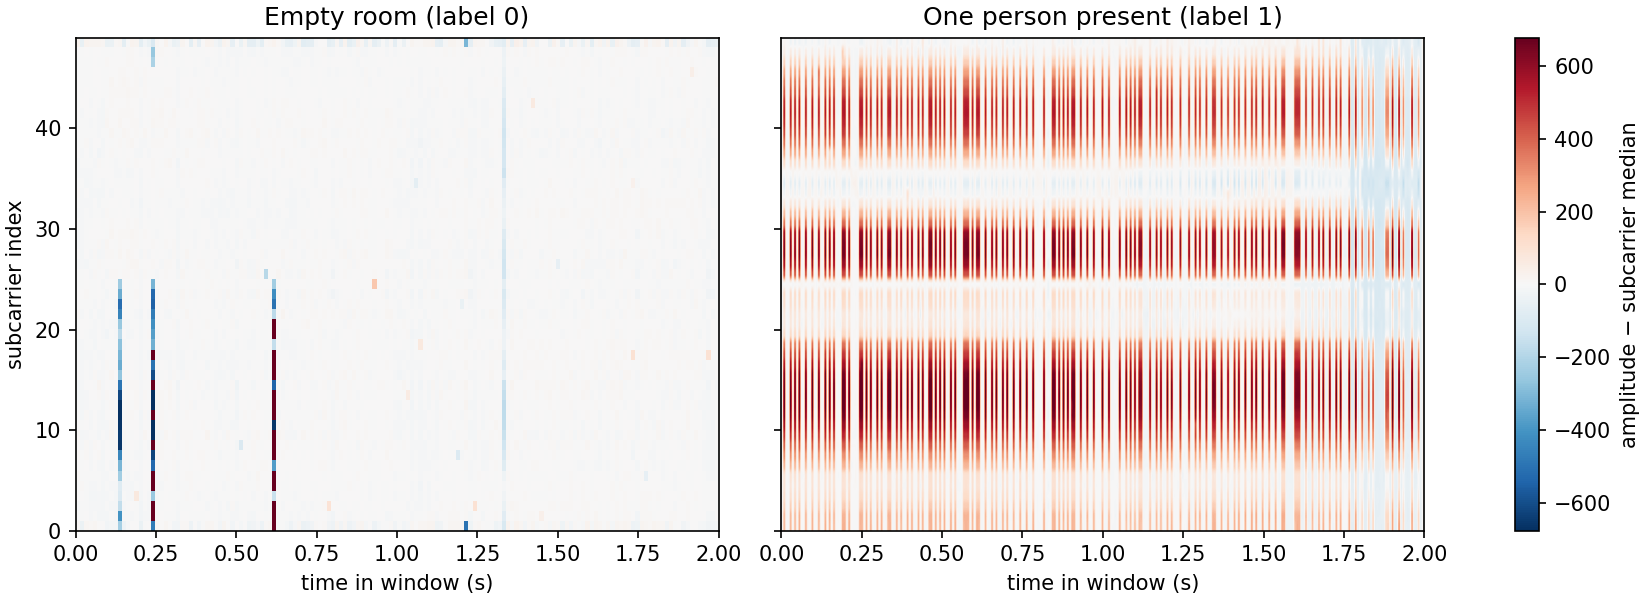
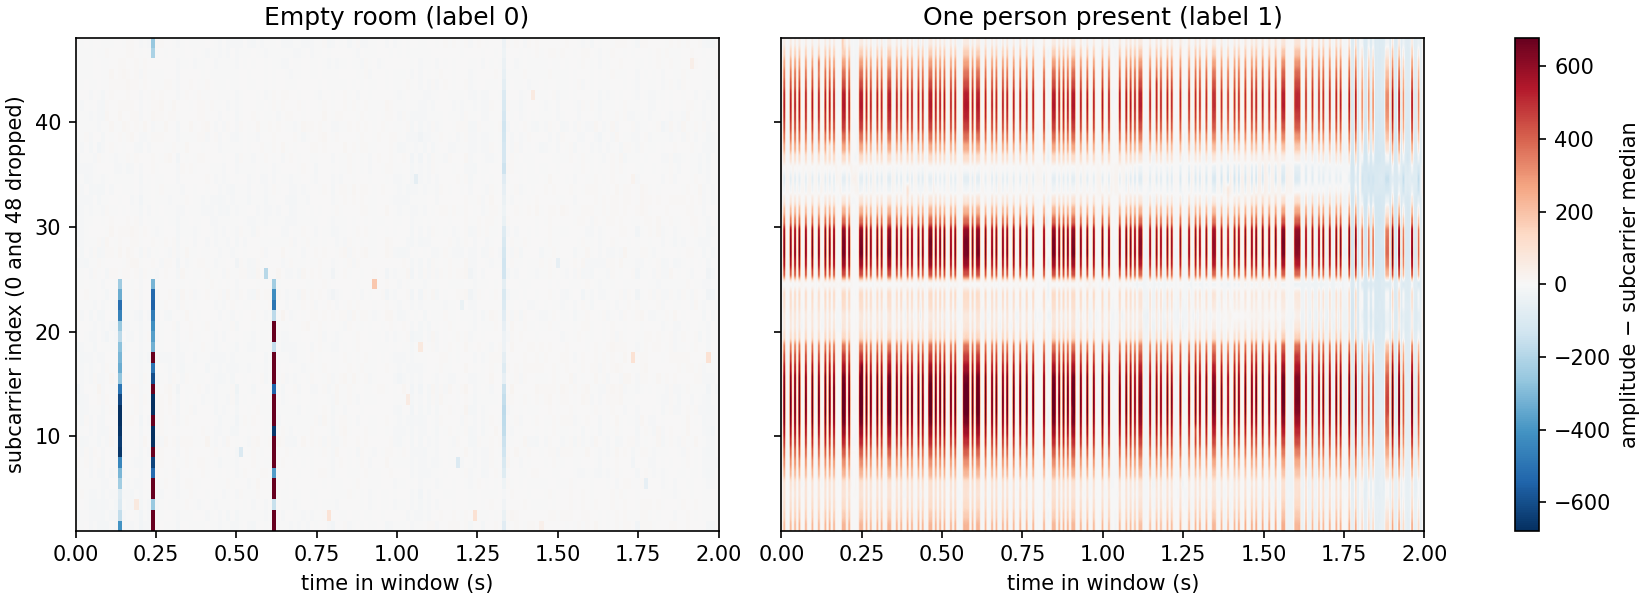
Drop band-edge subcarriers 0 and 48; document phase exclusion
Edges are 1.3-7x noisier than inner subcarriers in every empty-room
file. All loading goes through load(), so every step now uses 47
subcarriers. Figures and stats regenerated; raw-signal figure moved to
subcarrier 1.

diff --git a/main.py b/main.py
@@ -3,8 +3,9 @@
 Data: IEEE DataPort "CSI Dataset for WiFi Based Human Detection" (DOI 10.21227/smn7-jb67),
 unzipped into the project as "CSV Files/". Each magnitude CSV = one ~70 s recording,
 rows = packets (time), 49 columns = subcarriers, no header, no timestamps.
+Only the csi_magnitude_data files are read, so CSI phase is never loaded (dropped by design).
 
-Outputs go to figures/: fig_raw_subcarrier0.png, fig_a_heatmap.png,
+Outputs go to figures/: fig_raw_subcarrier1.png, fig_a_heatmap.png,
 fig_b_spread_boxplot.png, table_dataset_stats.csv, table_split.csv
 """
 import glob
@@ -15,12 +16,14 @@ import numpy as np
 import pandas as pd
 
 DATA = "CSV Files"
+# magnitude files only: the csi_complex_data/ folders (amplitude + phase) are not used
 FOLDERS = {
     "empty":      f"{DATA}/room4_iqbal/Static_noperson_channel_11_20mhz/csi_magnitude_data",
     "person":     f"{DATA}/room4_iqbal/Dynamic_1_person_ch11_20mhz/csi_magnitude_data",
     # not used for training: only checked to decide what "Static" means (see label check below)
     "lab_static": f"{DATA}/LAB_Final Year Project/Static_Lab_ch6_20mhz/csi_magnitude_data",
 }
+DROP_SUBCARRIERS = [0, 48]   # band edges: 1.3-7x noisier than inner subcarriers in every empty file
 FILE_S = 70    # seconds between consecutive file start times (from the filenames)
 WIN_S = 2      # window length in seconds
 FIG_DIR = "figures"
@@ -34,7 +37,8 @@ def list_csv(folder):
 
 
 def load(path):
-    return pd.read_csv(path, header=None)   # no header row: the first line is data
+    df = pd.read_csv(path, header=None)       # no header row: the first line is data
+    return df.drop(columns=DROP_SUBCARRIERS)  # 49 -> 47 subcarriers (original indices kept)
 
 
 def spread(df):
@@ -145,15 +149,15 @@ assert len(all_split) == len(set(all_split)) == len(files["empty"]) + len(files[
 
 # ---------- 5. figures ----------
 
-# raw subcarrier 0 over a whole file: shows the spikes in the empty room
+# raw subcarrier 1 over a whole file: shows the spikes in the empty room
 fig, axes = plt.subplots(2, 1, figsize=(10, 6), sharey=True, constrained_layout=True)
 for ax, name, title in zip(axes, ("empty", "person"),
                            ("room4, empty (Static_noperson)", "room4, 1 person moving (Dynamic_1_person)")):
-    ax.plot(first[name][0])
-    ax.set_title(f"{title} - subcarrier 0")
+    ax.plot(first[name][1])
+    ax.set_title(f"{title} - subcarrier 1")
     ax.set_xlabel("packet index")
     ax.set_ylabel("amplitude")
-plt.savefig(f"{FIG_DIR}/fig_raw_subcarrier0.png", dpi=150)
+plt.savefig(f"{FIG_DIR}/fig_raw_subcarrier1.png", dpi=150)
 
 # (a) one 2-s window per class, each subcarrier centred on its own median
 centred = {}
@@ -167,10 +171,10 @@ for ax, name, title in zip(axes, ("empty", "person"),
                            ("Empty room (label 0)", "One person present (label 1)")):
     c = centred[name]
     im = ax.imshow(c.T, aspect="auto", origin="lower", cmap="RdBu_r", vmin=-lim, vmax=lim,
-                   extent=[0, WIN_S, 0, c.shape[1]])
+                   extent=[0, WIN_S, 1, 48])
     ax.set_title(title)
     ax.set_xlabel("time in window (s)")
-axes[0].set_ylabel("subcarrier index")
+axes[0].set_ylabel("subcarrier index (0 and 48 dropped)")
 fig.colorbar(im, ax=axes, label="amplitude − subcarrier median")
 plt.savefig(f"{FIG_DIR}/fig_a_heatmap.png", dpi=150)
 
